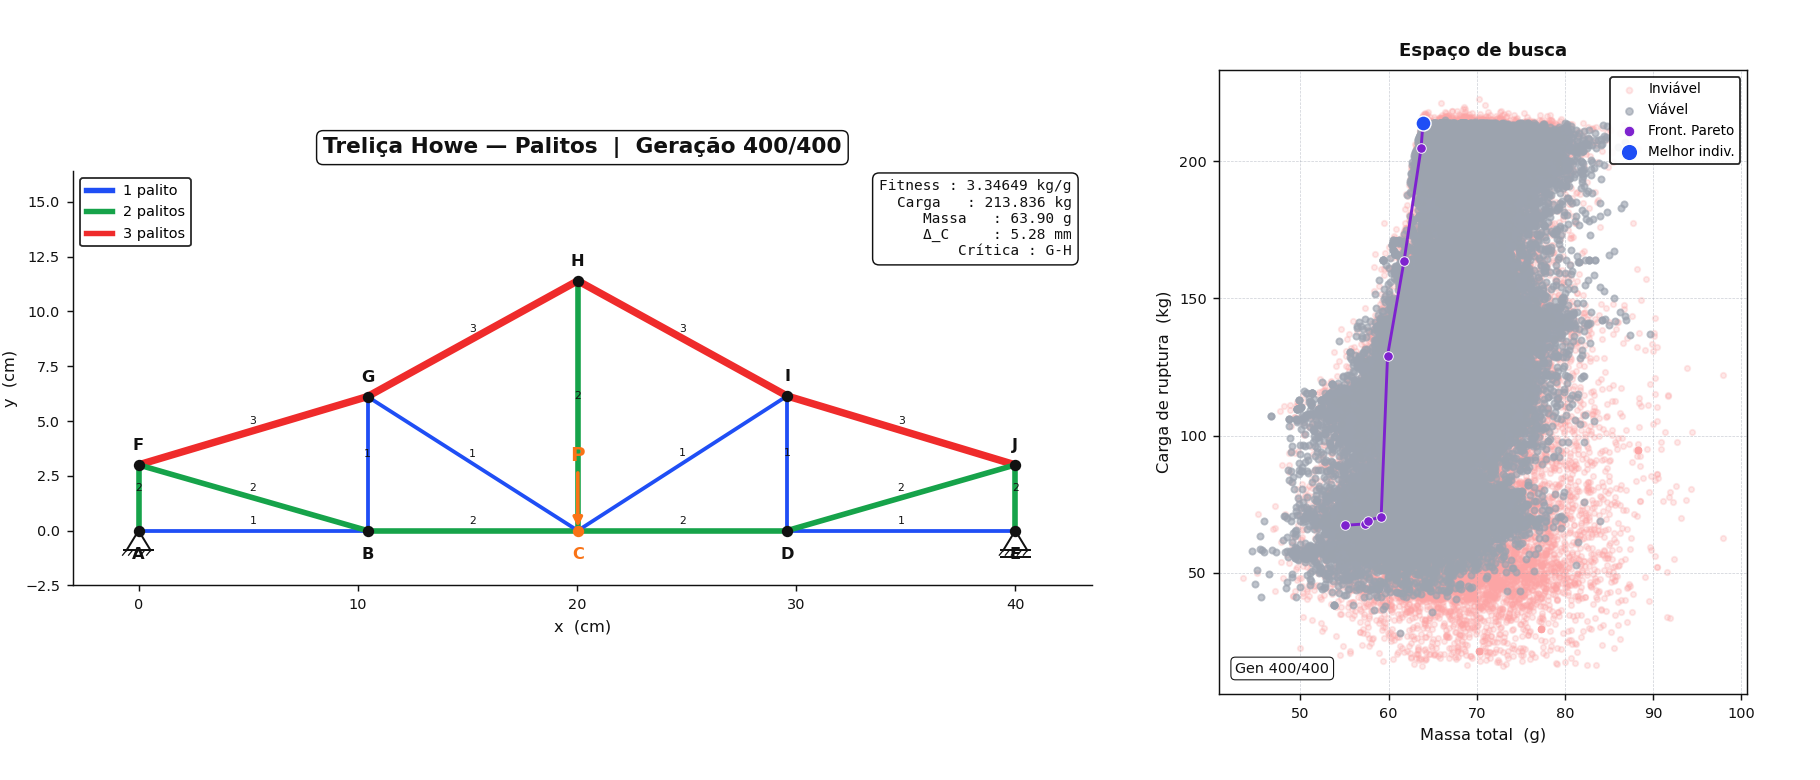
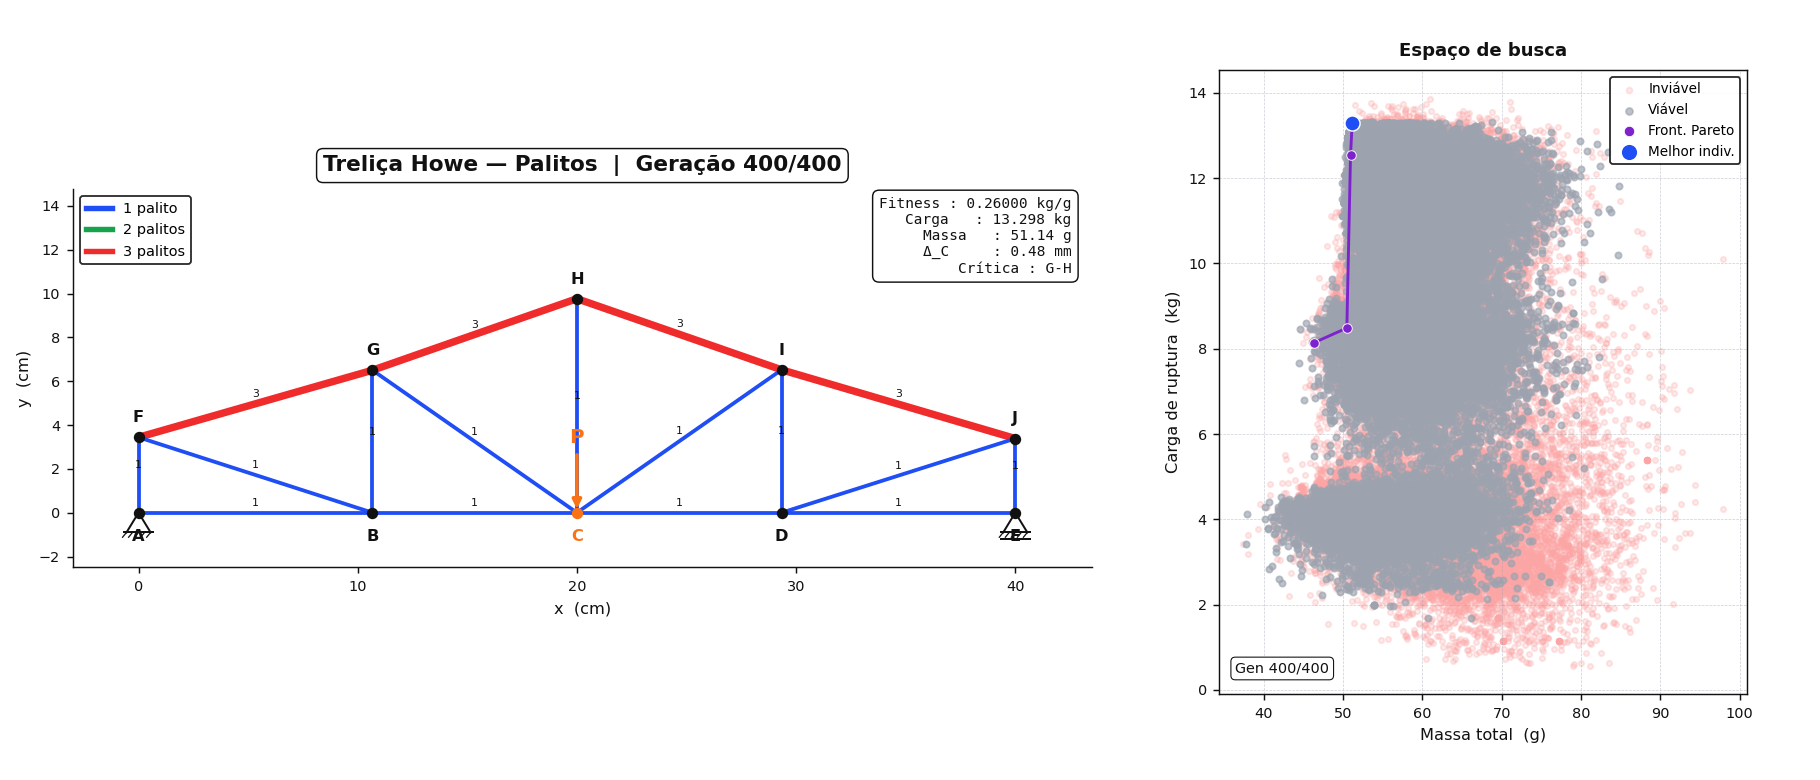
atualizar valores coerentes para atv9

diff --git a/app/visualizer.py b/app/visualizer.py
@@ -37,7 +37,7 @@ def _desenhar_apoio(ax, x, y, rolico=False):
         ax.plot([x - b - 0.05, x + b + 0.05], [y - h - 0.20, y - h - 0.20], color=PRETO, lw=1.3, zorder=6)
 
 
-def _desenhar_quadro(ax, ax_p, cromossomo, nuvem, fronteira_plot, melhor_obj, gen, num_geracoes,
+def _desenhar_quadro(ax, cromossomo, nuvem, fronteira_plot, melhor_obj, gen, num_geracoes,
                      forcas_externas, barras_base, barras_verticais):
     utils = Utils()
     lb = cromossomo[:barras_base]
@@ -47,6 +47,7 @@ def _desenhar_quadro(ax, ax_p, cromossomo, nuvem, fronteira_plot, melhor_obj, ge
     nos, barras, comprimentos, _ = utils.calcular_comprimentos_howe(lb, lv)
 
     ax.clear()
+    ax_p = ax.inset_axes([0.42, 0.56, 0.32, 0.40])
     ax.set_facecolor("white")
     x_max = float(max(nos[:, 0]))
     ax.set_xlim(-1.0, x_max + 1.2)
@@ -119,8 +120,6 @@ def _desenhar_quadro(ax, ax_p, cromossomo, nuvem, fronteira_plot, melhor_obj, ge
         bbox=dict(boxstyle="round,pad=0.4", fc="white", ec=PRETO, lw=1.0),
     )
 
-    ax.text(0.5, 0.965, "Prof. Rubel; rcruzneto@uea.edu.br", transform=ax.transAxes,
-            ha="center", va="top", fontsize=9, color=CINZA, zorder=5)
 
     ax_p.clear()
     ax_p.set_facecolor("white")
@@ -169,8 +168,7 @@ def _desenhar_quadro(ax, ax_p, cromossomo, nuvem, fronteira_plot, melhor_obj, ge
     ax_p.set_ylabel("Deformation of node C (mm)", fontsize=8, color=PRETO)
     ax_p.tick_params(colors=PRETO, labelsize=7)
     ax_p.legend(fontsize=6.2, loc="upper right", framealpha=0.9,
-                markerscale=1.0, handletextpad=0.3, ncol=2,
-                bbox_to_anchor=(1.0, 1.16))
+                markerscale=1.0, handletextpad=0.3, ncol=2)
     for spine in ax_p.spines.values():
         spine.set_color(PRETO)
 
@@ -188,7 +186,6 @@ def animar_evolucao(
 ):
     fig = plt.figure(figsize=(10, 9), facecolor="white")
     ax = fig.add_axes([0.07, 0.07, 0.9, 0.84])
-    ax_p = fig.add_axes([0.085, 0.635, 0.29, 0.235])
 
     def update(frame):
         nuvem_acumulada = []
@@ -196,7 +193,7 @@ def animar_evolucao(
             nuvem_acumulada.extend(historico_nuvem[g])
         fronteira_plot = historico_fronteira_plot[frame] if frame < len(historico_fronteira_plot) else []
         _desenhar_quadro(
-            ax, ax_p,
+            ax,
             historico_cromossomos[frame],
             nuvem_acumulada,
             fronteira_plot,
@@ -230,10 +227,9 @@ def gerar_imagem_final(
 ):
     fig = plt.figure(figsize=(10, 9), facecolor="white")
     ax = fig.add_axes([0.07, 0.07, 0.9, 0.84])
-    ax_p = fig.add_axes([0.085, 0.635, 0.29, 0.235])
 
     _desenhar_quadro(
-        ax, ax_p, cromossomo, nuvem, fronteira_plot, melhor_obj,
+        ax, cromossomo, nuvem, fronteira_plot, melhor_obj,
         gen, num_geracoes, forcas_externas, barras_base, barras_verticais,
     )
 
